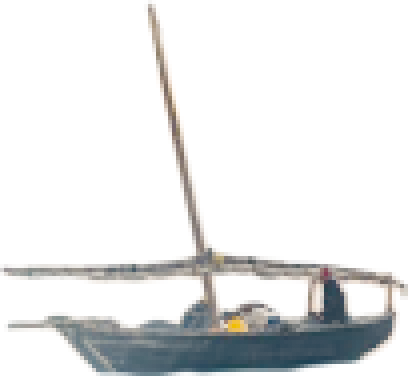
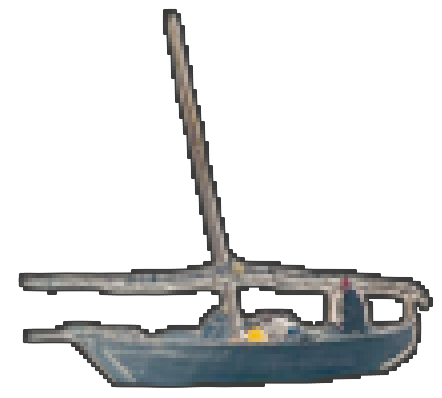
update: graphics

Changed region(s): [[0.0, 0.0, 0.9903, 1.0]]

diff --git a/src/components/Main.tsx b/src/components/Main.tsx
@@ -24,19 +24,19 @@ const ReceiveMessageComponent = ({ toCountry, fromCountry, isReceiving }: any) =
 
 const AnimatedBoatComp = () => {
   const styles = useSpring({
-    from: { transform: "translateY(0%) rotate(0deg)" },
+    from: { transform: "translateY(0%) rotate(4deg)" },
     to: [
-      { transform: "translateY(10%) rotate(10deg)" },
-      { transform: "translateY(0%) rotate(0deg)"},
-      { transform: "translateY(10%) rotate(-10deg)" },
-      { transform: "translateY(0%) rotate(0deg)"},
+      { transform: "translateY(8%) rotate(8deg)" },
+      { transform: "translateY(0%) rotate(4deg)"},
+      { transform: "translateY(8%) rotate(0deg)" },
+      { transform: "translateY(0%) rotate(4deg)"},
     ],
-    config: { duration: 1000 },
+    config: { duration: 2000 },
     loop:true
   })
 
   return <animated.div style={styles}>
-    <img alt="boat image" src='/boat.png' width='200px' height='100%' />
+    <img alt="boat image" src='/boat.png' width='300px' height='100%' />
   </animated.div>;
 }
 const AnimatedBoat = React.memo(AnimatedBoatComp);
@@ -126,9 +126,10 @@ const Main = () => {
         <ReceiveMessageComponent country={country} isReceiving={showReceiveMessagePopup} />
       </Modal>
       <div onMouseMove={handleMouseMove}>
-        <img alt="background image" src='/background.png' style={{ width: '100vw', height: '100vh' }} onClick={() => setShowChoicePopup(true)}/>
+        <img alt="ocean image" src='/ocean.png' className='absolute top-0 w-screen h-screen' onClick={() => setShowChoicePopup(true)}/>
+        <img alt="sky image" src='/sky.png' className='absolute top-0 w-screen h-screen' onClick={() => setShowChoicePopup(true)}/>
 
-        <div className="absolute z-10 left-1/2 top-1/2">
+        <div className="absolute z-10 left-1/2 -translate-x-1/2 top-1/2">
           <AnimatedBoat />
         </div>
 
